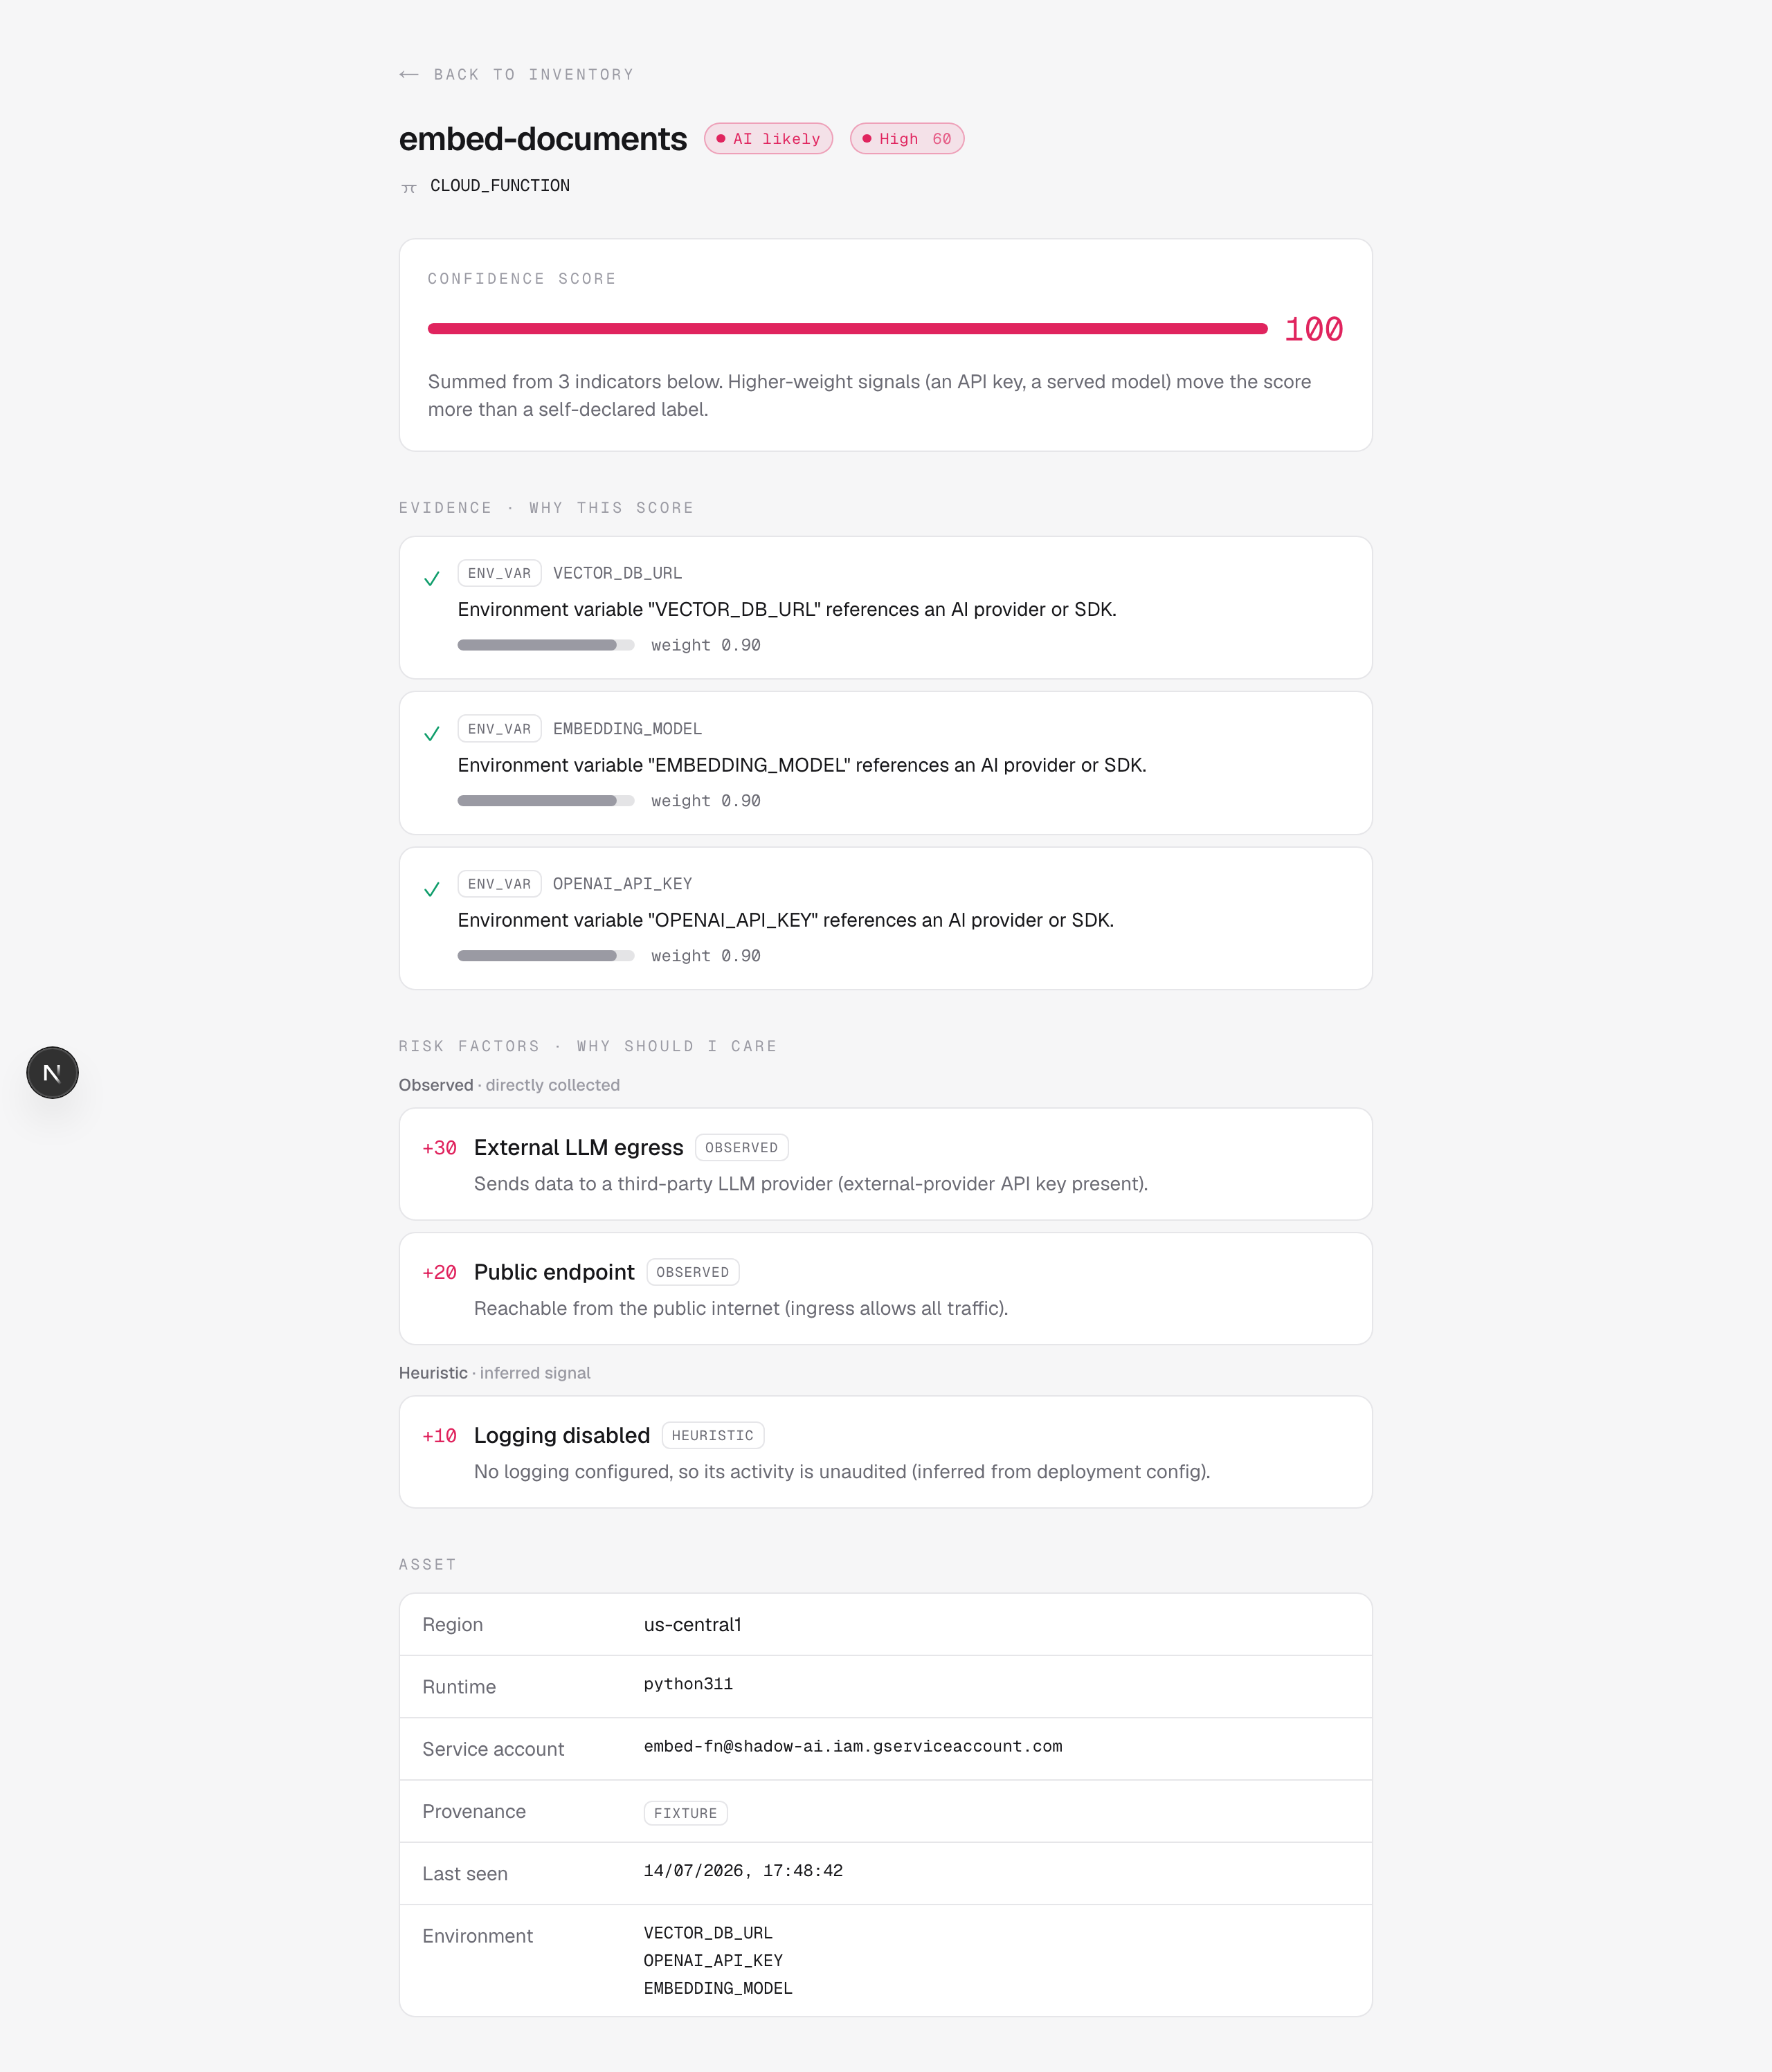
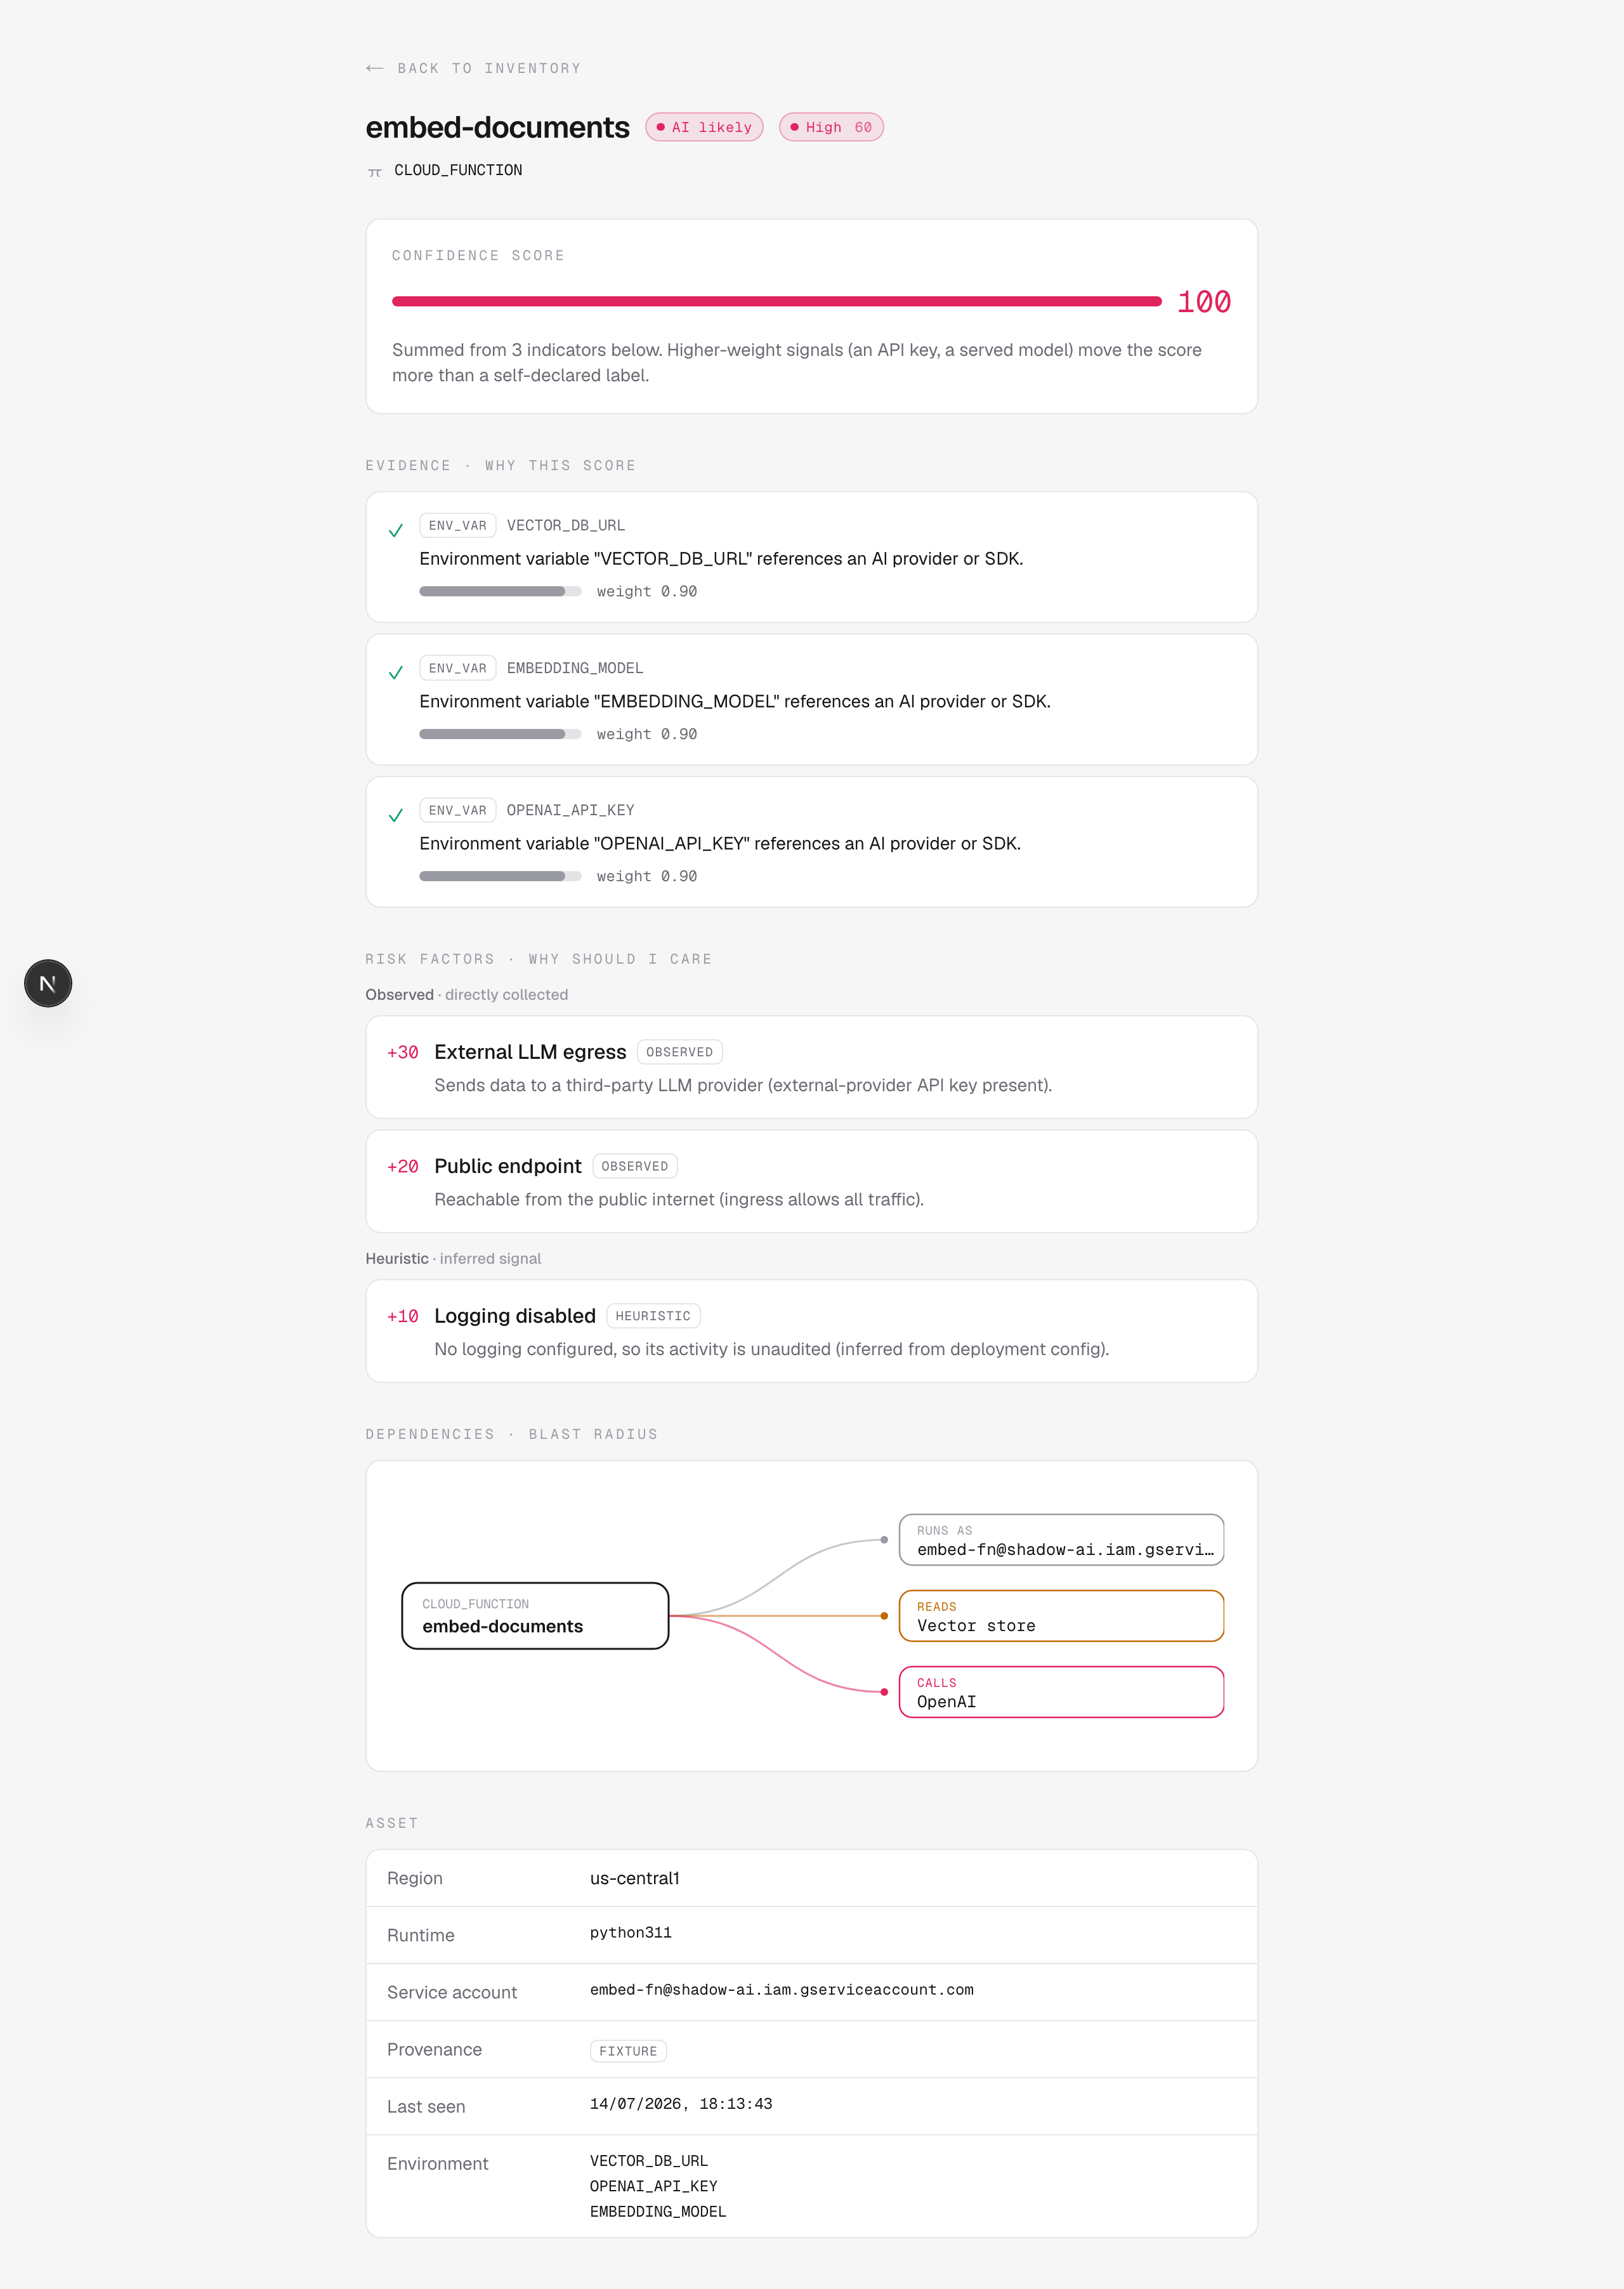
feat(graph): add lightweight relationship visualization
Bonus 2. The agent detail page renders a node-link diagram of each asset's
dependency chain (blast radius): the identity it runs as, external LLM egress,
vector store, and served model. Edges are derived in lib/graph from metadata
already collected (service account + env-var names + type), so there is no new
discovery and no schema change. Rendered as inline SVG - no graph library.
External-LLM edges are accented to echo the risk axis.

- lib/graph: pure relationships(asset) -> Edge[]
- detail page: SVG hub-and-spoke graph
- README + ARCHITECTURE note the lightweight implementation and upgrade path

diff --git a/app/agents/[id]/page.tsx b/app/agents/[id]/page.tsx
@@ -5,6 +5,7 @@
 import Link from "next/link";
 import { use, useEffect, useState } from "react";
 import type { Asset, Detection, Evidence, RiskFactor } from "@/lib/types";
+import { relationships } from "@/lib/graph";
 import { ConfidenceMeter, RiskPill, SourceTag, StatusPill, TypeLabel } from "../../ui";
 
 // Detail endpoint nests Evidence and RiskFactors under each Detection.
@@ -133,6 +134,9 @@ export default function AgentDetail({ params }: { params: Promise<{ id: string }
         </section>
       )}
 
+      {/* Dependency view - the asset's blast radius, derived from metadata. */}
+      <Dependencies agent={agent} />
+
       {/* Asset facts. */}
       <section className="mt-8">
         <p className="eyebrow">Asset</p>
@@ -161,6 +165,86 @@ export default function AgentDetail({ params }: { params: Promise<{ id: string }
         </dl>
       </section>
     </main>
+  );
+}
+
+// Kind -> node accent. External egress (an LLM) reads as the one to notice.
+const EDGE_COLOR: Record<string, string> = {
+  identity: "var(--faint)",
+  llm: "var(--likely)",
+  vertex: "var(--possible)",
+  vectorstore: "var(--possible)",
+  model: "var(--not)",
+};
+
+function truncate(s: string, n = 30) {
+  return s.length > n ? s.slice(0, n - 1) + "…" : s;
+}
+
+// Node-link diagram: the asset hub on the left, its dependencies fanned to the
+// right, one edge per relationship. Inline SVG - no graph library.
+function Dependencies({ agent }: { agent: Agent }) {
+  const edges = relationships(agent);
+  if (edges.length === 0) return null;
+
+  const rowH = 60;
+  const padY = 16;
+  const H = edges.length * rowH + padY * 2;
+  const W = 660;
+  const hubX = 12;
+  const hubW = 210;
+  const hubCx = hubX + hubW;
+  const hubCy = H / 2;
+  const nodeX = 392;
+  const nodeW = 256;
+  const cy = (i: number) => padY + i * rowH + rowH / 2;
+
+  return (
+    <section className="mt-8">
+      <p className="eyebrow">Dependencies · blast radius</p>
+      <div className="card mt-3 overflow-x-auto p-4">
+        <svg viewBox={`0 0 ${W} ${H}`} width="100%" style={{ maxWidth: W, height: "auto" }} role="img"
+          aria-label={`${agent.name} dependency graph`}>
+          {/* edges */}
+          {edges.map((e, i) => {
+            const y = cy(i);
+            const mx = (hubCx + nodeX) / 2;
+            return (
+              <path key={"p" + e.kind + e.target}
+                d={`M ${hubCx} ${hubCy} C ${mx} ${hubCy}, ${mx} ${y}, ${nodeX} ${y}`}
+                fill="none" stroke={EDGE_COLOR[e.kind]} strokeWidth={1.5} opacity={0.55} />
+            );
+          })}
+
+          {/* hub node */}
+          <rect x={hubX} y={hubCy - 26} width={hubW} height={52} rx={12}
+            fill="var(--surface)" stroke="var(--text)" strokeWidth={1.5} />
+          <text x={hubX + 16} y={hubCy - 6} fontSize={10} fill="var(--faint)"
+            fontFamily="var(--font-geist-mono), monospace">{agent.type}</text>
+          <text x={hubX + 16} y={hubCy + 13} fontSize={14} fill="var(--text)" fontWeight={600}>
+            {truncate(agent.name, 22)}
+          </text>
+
+          {/* dependency nodes */}
+          {edges.map((e, i) => {
+            const y = cy(i);
+            const c = EDGE_COLOR[e.kind];
+            return (
+              <g key={"n" + e.kind + e.target}>
+                <circle cx={nodeX} cy={y} r={3} fill={c} />
+                <rect x={nodeX + 12} y={y - 20} width={nodeW} height={40} rx={10}
+                  fill="var(--surface)" stroke={c} strokeWidth={1.25} />
+                <text x={nodeX + 26} y={y - 4} fontSize={9.5} fill={c}
+                  fontFamily="var(--font-geist-mono), monospace"
+                  letterSpacing="0.06em">{e.relation.toUpperCase()}</text>
+                <text x={nodeX + 26} y={y + 12} fontSize={13} fill="var(--text)"
+                  fontFamily="var(--font-geist-mono), monospace">{truncate(e.target)}</text>
+              </g>
+            );
+          })}
+        </svg>
+      </div>
+    </section>
   );
 }
 

diff --git a/lib/graph/index.ts b/lib/graph/index.ts
@@ -1,0 +1,59 @@
+// Relationship view - derives an asset's dependency edges (its blast radius)
+// from metadata already collected: the service account it runs as, the external
+// services its env-var names imply, and the model it serves. Pure function, no
+// new discovery.
+//
+// ponytail: edges are inferred from env-var *names* + identity, not from real
+// IAM bindings or Secret Manager references. Upgrade path: collect those in
+// discovery and add edge kinds here - the render does not change.
+import type { Asset } from "@/lib/types";
+
+export interface Edge {
+  relation: string; // "Runs as", "Calls", "Reads", "Serves"
+  target: string;
+  kind: "identity" | "llm" | "vertex" | "vectorstore" | "model";
+}
+
+// Env-var name -> external dependency. First match wins.
+const PROVIDERS: [RegExp, string][] = [
+  [/OPENAI/i, "OpenAI"],
+  [/ANTHROPIC|CLAUDE/i, "Anthropic"],
+  [/COHERE/i, "Cohere"],
+  [/MISTRAL/i, "Mistral"],
+  [/GROQ/i, "Groq"],
+  [/PERPLEXITY/i, "Perplexity"],
+  [/TOGETHER/i, "Together AI"],
+  [/REPLICATE/i, "Replicate"],
+  [/HUGGINGFACE|HF_TOKEN/i, "Hugging Face"],
+];
+const GOOGLE_AI = /GEMINI|VERTEX|GOOGLE_API_KEY/i;
+const VECTOR = /VECTOR_DB|PINECONE|WEAVIATE|QDRANT|CHROMA|MILVUS/i;
+
+export function relationships(asset: Asset): Edge[] {
+  const edges: Edge[] = [];
+
+  if (asset.serviceAccount) {
+    edges.push({ relation: "Runs as", target: asset.serviceAccount, kind: "identity" });
+  }
+
+  const seen = new Set<string>();
+  const add = (relation: string, target: string, kind: Edge["kind"]) => {
+    if (seen.has(kind + target)) return;
+    seen.add(kind + target);
+    edges.push({ relation, target, kind });
+  };
+
+  for (const key of Object.keys(asset.environmentVariables ?? {})) {
+    const provider = PROVIDERS.find(([re]) => re.test(key));
+    if (provider) add("Calls", provider[1], "llm");
+    else if (GOOGLE_AI.test(key)) add("Calls", "Vertex AI", "vertex");
+    else if (VECTOR.test(key)) add("Reads", "Vector store", "vectorstore");
+  }
+
+  // A Vertex AI endpoint serves the deployed model named in its runtime.
+  if (asset.type === "VERTEX_AI" && asset.runtime) {
+    add("Serves", asset.runtime, "model");
+  }
+
+  return edges;
+}

diff --git a/README.md b/README.md
@@ -18,11 +18,15 @@ with an **explainable confidence score** that shows *why* each one was flagged.
 > Architecture, design decisions, tradeoffs, and how this scales to thousands of
 > projects live in **[`ARCHITECTURE.md`](ARCHITECTURE.md)**.
 
-**Bonus implemented — Risk scoring.** A second, orthogonal axis: alongside "is
-this AI", each asset gets an additive risk score (external-LLM egress, public
-endpoint, broad service account, logging) with every factor labelled *observed*
-or *heuristic*. Rule-based, so the other bonuses slot in as new rules. See
-[`ARCHITECTURE.md` §7](ARCHITECTURE.md#7-risk-scoring-architecture).
+**Bonuses implemented.**
+- **Risk scoring** - a second, orthogonal axis: alongside "is this AI", each asset
+  gets an additive risk score (external-LLM egress, public endpoint, broad service
+  account, logging) with every factor labelled *observed* or *heuristic*.
+  Rule-based, so the other bonuses slot in as new rules.
+  See [`ARCHITECTURE.md` §7](ARCHITECTURE.md#7-risk-scoring-architecture).
+- **Relationship view** - each agent's detail page shows its dependency chain
+  (service account, external LLM, vector store, served model) so you can read the
+  blast radius. Derived from collected metadata; no extra discovery.
 
 ---
 

diff --git a/ARCHITECTURE.md b/ARCHITECTURE.md
@@ -306,8 +306,11 @@ rules or new evidence sources without an architectural change:
 - **Cloud Logging integration** - a runtime rule: observed Vertex
   `GenerateContent` calls in audit logs become an `OBSERVED` factor, raising both
   AI recall and risk.
-- **Relationship graph** - a shared-secret or external-egress edge becomes a
-  derived factor once resource relationships are collected.
+- **Relationship graph** - a lightweight version ships today: the detail page
+  derives each asset's dependency chain (identity, external LLM, vector store,
+  served model) from collected metadata (`lib/graph`). A full graph would collect
+  real edges (IAM bindings, Secret Manager references) so a shared secret or an
+  external-egress edge could also feed the risk score.
 - **Container image analysis** - AI libraries found in an image add `OBSERVED`
   detection evidence, which the external-LLM rule already keys off.
 - **Incremental scanning** - a `Scan` aggregate with per-resource etags lets both